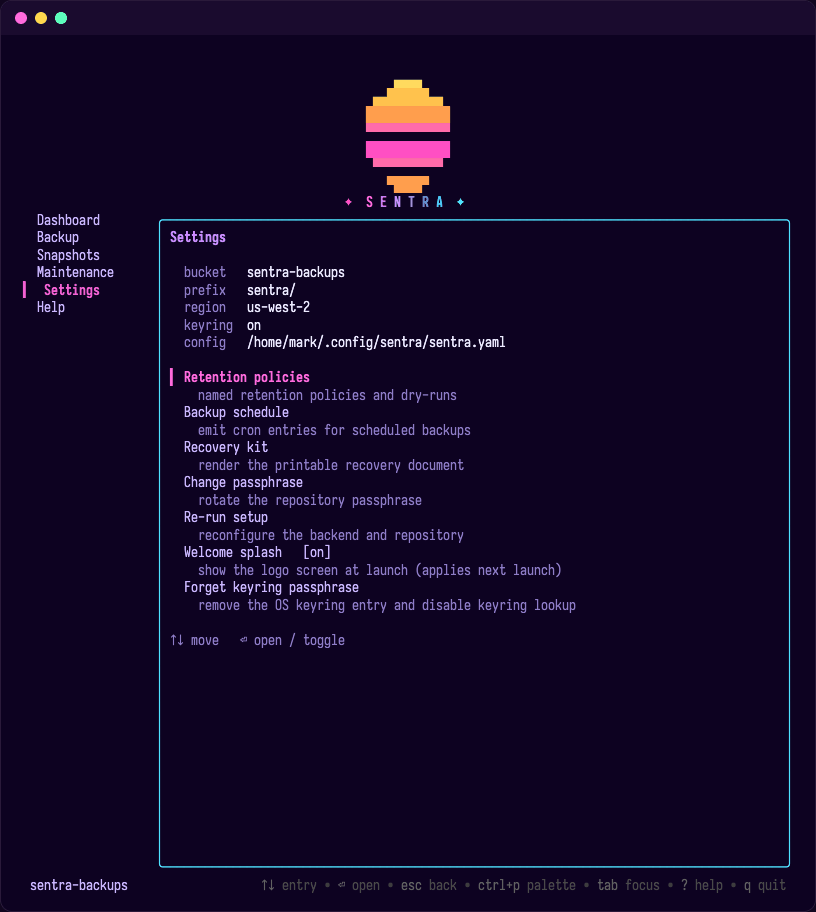
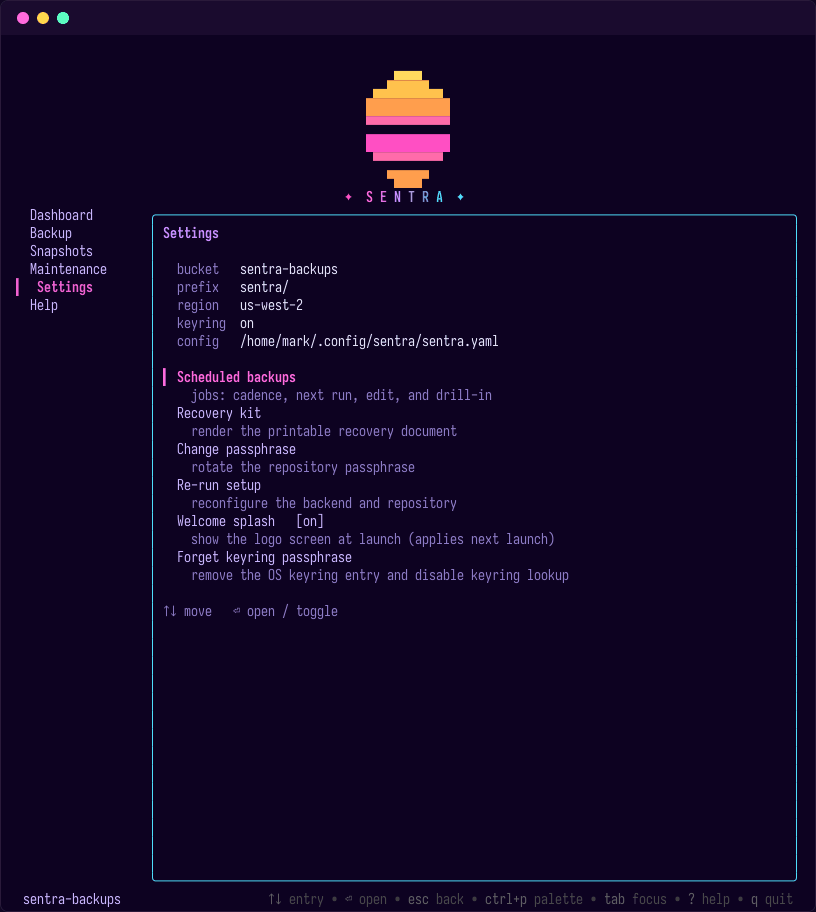
docs: settings screenshot and alt text for the scheduled-backups row
Applies the intent of claude/laughing-rosalind-33e6c0 (2026-08-29) onto
current main: the PNG re-rendered after the jobs-view switchover, and the
img alt text that still described the retired policies/schedule rows.
The caption line had already been updated on main. settings.go is
unchanged since that render, so the image matches today's view.

diff --git a/README.md b/README.md
@@ -65,7 +65,7 @@ built-in agent that audits your repository and surfaces recommendations.
       <br><sub><b>First-run wizard</b> — guided setup for AWS or any S3-compatible store.</sub>
     </td>
     <td width="50%" valign="top" align="center">
-      <img src="docs/screenshots/settings.png" alt="Settings view: bucket, prefix, region and keyring readouts plus policies, backup schedule, recovery kit, passphrase rotation, and re-run setup.">
+      <img src="docs/screenshots/settings.png" alt="Settings view: bucket, prefix, region and keyring readouts plus scheduled backups, recovery kit, passphrase rotation, and re-run setup.">
       <br><sub><b>Settings</b> — config summary plus scheduled backups, recovery kit, passphrase, and setup.</sub>
     </td>
   </tr>
